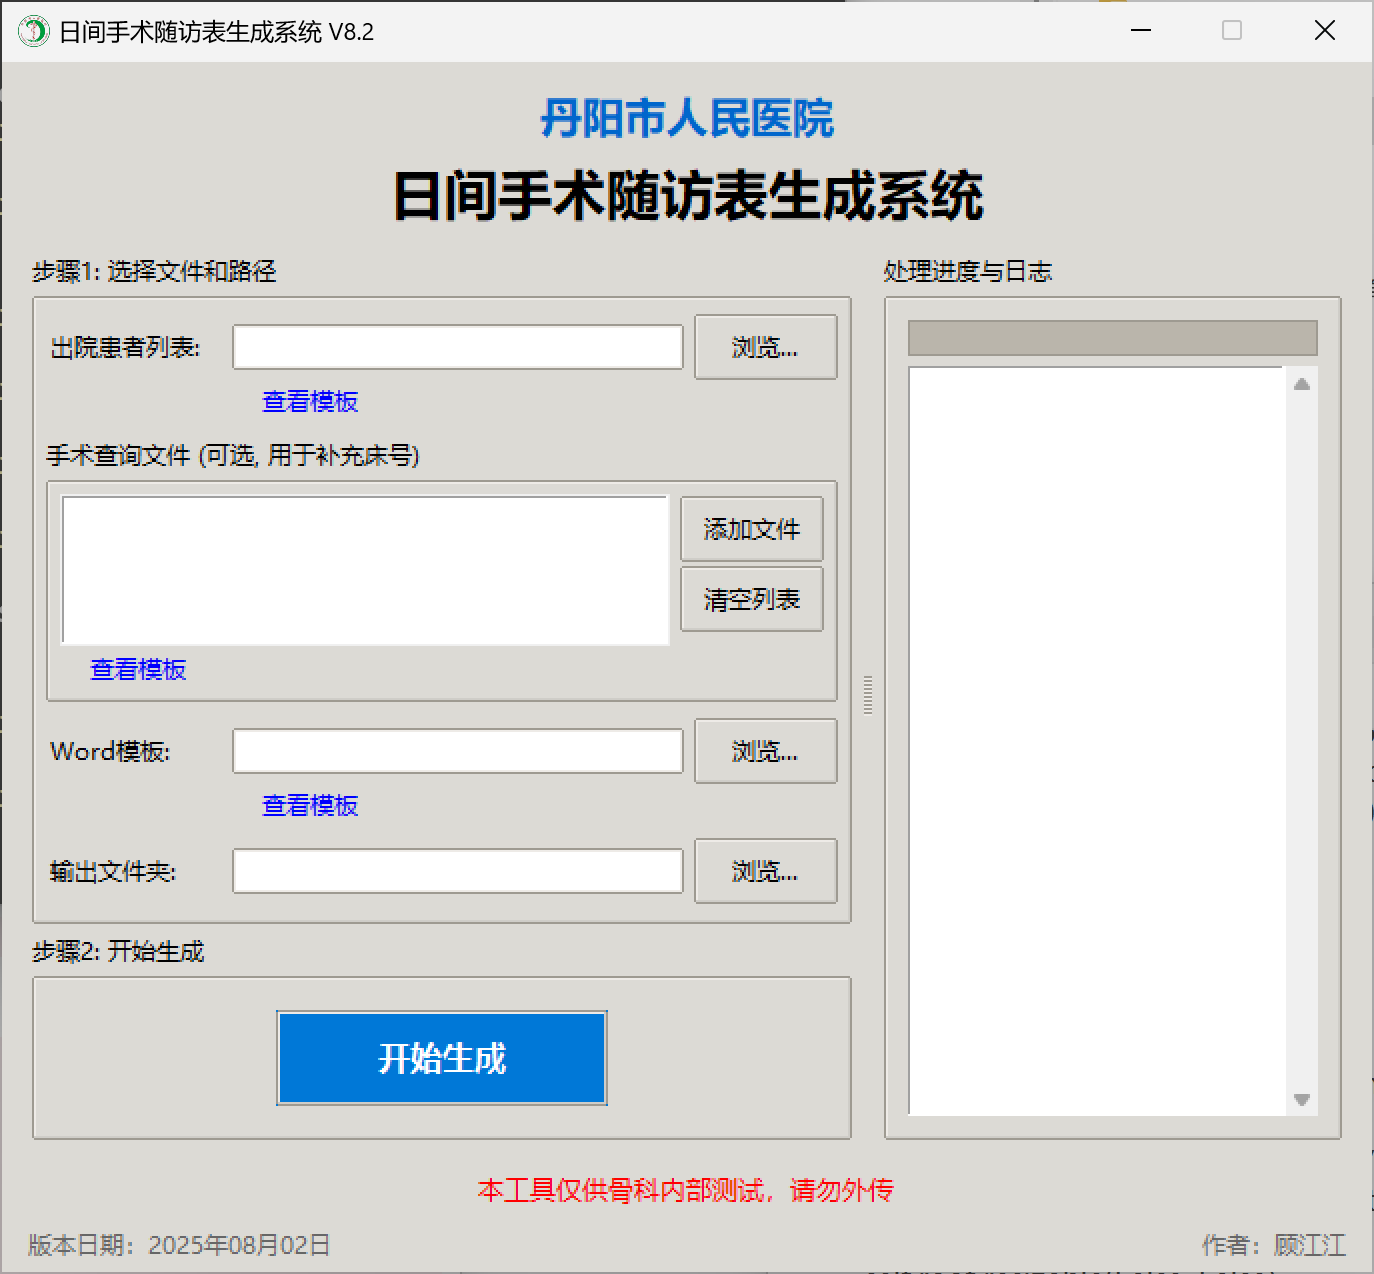
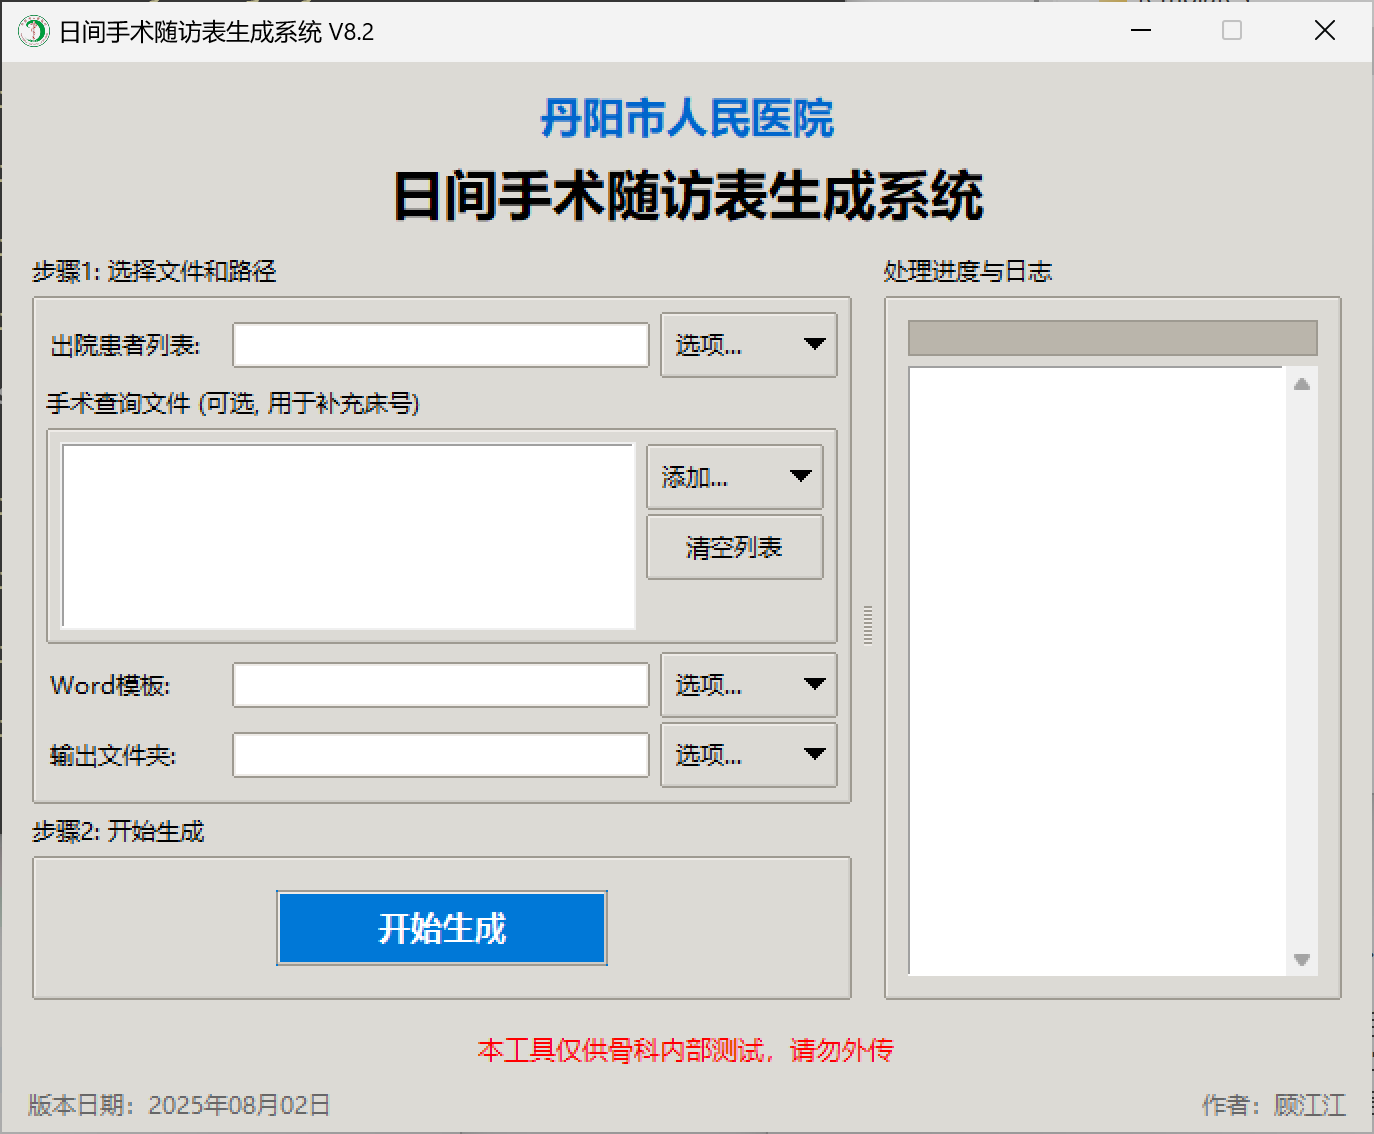
使用下拉菜单替换单纯的按钮，提升UI交互
- [UI交互升级] 将文件选择按钮升级为下拉菜单（Menubutton），集成了“选择文件”和“查看模板”等功能，使界面更紧凑、操作更便捷。

diff --git a/source/src/gui/ui_builder.py b/source/src/gui/ui_builder.py
@@ -19,7 +19,7 @@ def create_ui(app):
     app.root.configure(bg=default_bg)
     app.log_text_tags = {"warning": {"foreground": "orange"}, "error": {"foreground": "red"}}
 
-    # --- 底部信息栏 ---
+    # --- 底部和顶部UI元素 ---
     bottom_frame = tk.Frame(app.root, bg=default_bg)
     bottom_frame.pack(side=tk.BOTTOM, fill=tk.X, padx=10, pady=2)
     tk.Label(bottom_frame, text=f"版本日期：{datetime.now().strftime('%Y年%m月%d日')}", font=app.font_normal, fg="#666666", bg=default_bg).pack(side=tk.LEFT)
@@ -44,38 +44,70 @@ def create_ui(app):
 
     right_panel = ttk.Frame(main_pane, padding=(5, 5, 5, 5))
     main_pane.add(right_panel)
-
+    
+    # --- 分割线位置控制 (已恢复) ---
     s = app.scaling_factor
     sash_default = int(420 * s)
-    def set_initial_sash(event): main_pane.sashpos(0, sash_default)
-    main_pane.bind("<Configure>", set_initial_sash)
+    sash_min = int(320 * s)
+    sash_max = int(520 * s)
+
+    def set_initial_sash(event):
+        main_pane.sashpos(0, sash_default)
+        main_pane.unbind("<Configure>")
     
-    # --- 左侧面板内容 ---
+    def limit_sash_movement(event):
+        if event.x < sash_min:
+            main_pane.sashpos(0, sash_min)
+            return "break"
+        if event.x > sash_max:
+            main_pane.sashpos(0, sash_max)
+            return "break"
+
+    main_pane.bind("<Configure>", set_initial_sash)
+    main_pane.bind("<B1-Motion>", limit_sash_movement)
+    # ---------------------------------
+    
+    # --- 左侧面板 ---
     file_frame = ttk.LabelFrame(left_panel, text="步骤1: 选择文件和路径", padding=5)
     file_frame.pack(fill=tk.BOTH, expand=True) 
     
-    _create_file_selector(file_frame, "出院患者列表:", app.excel_path_var, app.select_excel_file, lambda: app.open_template('discharge'), app.font_normal)
+    # --- 出院患者列表 ---
+    discharge_menu_items = [
+        ("查看模板", lambda: app.open_template('discharge')),
+        ("选择文件", app.select_excel_file)
+    ]
+    _create_dropdown_selector(file_frame, "出院患者列表:", app.excel_path_var, discharge_menu_items, app.font_normal)
     
+    # --- 手术查询文件 ---
     surgery_frame = ttk.LabelFrame(file_frame, text="手术查询文件 (可选, 用于补充床号)", padding=5)
     surgery_frame.pack(fill=tk.X, expand=True, pady=3)
-    
-    listbox_frame = ttk.Frame(surgery_frame)
-    listbox_frame.pack(side=tk.LEFT, fill=tk.BOTH, expand=True)
-    app.surgery_listbox = tk.Listbox(listbox_frame, height=4, font=app.font_normal)
-    app.surgery_listbox.pack(side=tk.TOP, fill=tk.BOTH, expand=True)
-    
-    style.configure("Link.TButton", foreground="blue", relief="flat", borderwidth=0, padding=0)
-    template_btn_surgery = ttk.Button(listbox_frame, text="查看模板", command=lambda: app.open_template('surgery'), style="Link.TButton")
-    template_btn_surgery.pack(side=tk.BOTTOM, anchor='w', pady=(2,0))
-    
+    app.surgery_listbox = tk.Listbox(surgery_frame, height=5, font=app.font_normal)
+    app.surgery_listbox.pack(side=tk.LEFT, fill=tk.X, expand=True, padx=(0,5))
     surgery_buttons_frame = ttk.Frame(surgery_frame)
-    surgery_buttons_frame.pack(side=tk.LEFT, fill=tk.Y, anchor='n', padx=(5,0))
-    ttk.Button(surgery_buttons_frame, text="添加文件", command=app.select_surgery_query_files, width=8).pack(fill=tk.X, pady=1)
+    surgery_buttons_frame.pack(side=tk.LEFT, fill=tk.Y, anchor='n')
+    
+    # 手术查询的下拉菜单按钮
+    surgery_menubutton = ttk.Menubutton(surgery_buttons_frame, text="添加...", width=8)
+    surgery_menu = tk.Menu(surgery_menubutton, tearoff=False)
+    surgery_menu.add_command(label="查看模板", command=lambda: app.open_template('surgery'))
+    surgery_menu.add_command(label="添加文件", command=app.select_surgery_query_files)
+    surgery_menubutton.config(menu=surgery_menu)
+    surgery_menubutton.pack(fill=tk.X, pady=1)
+    
     ttk.Button(surgery_buttons_frame, text="清空列表", command=app.clear_surgery_query_files, width=8).pack(fill=tk.X, pady=1)
     
-    _create_file_selector(file_frame, "Word模板:", app.template_path_var, app.select_template_file, lambda: app.open_template('follow_up'), app.font_normal)
-    _create_file_selector(file_frame, "输出文件夹:", app.output_dir_var, app.select_output_dir, None, app.font_normal)
+    # --- Word模板 ---
+    word_menu_items = [
+        ("查看模板", lambda: app.open_template('follow_up')),
+        ("选择文件", app.select_template_file),
+        ("使用内置模板", app.use_builtin_word_template)
+    ]
+    _create_dropdown_selector(file_frame, "Word模板:", app.template_path_var, word_menu_items, app.font_normal)
     
+    # --- 输出文件夹 ---
+    _create_dropdown_selector(file_frame, "输出文件夹:", app.output_dir_var, [("选择文件夹", app.select_output_dir)], app.font_normal)
+    
+    # --- 控制和进度条 ---
     left_bottom_container = ttk.Frame(left_panel)
     left_bottom_container.pack(fill=tk.X, pady=(5,0))
     control_frame = ttk.LabelFrame(left_bottom_container, text="步骤2: 开始生成", padding=10)
@@ -86,7 +118,7 @@ def create_ui(app):
     app.start_button = ttk.Button(control_frame, text="开始生成", command=app.toggle_generation, style="Accent.TButton")
     app.start_button.pack(pady=5, ipady=5, ipadx=20)
 
-    # --- 右侧面板内容 ---
+    # --- 右侧面板 ---
     progress_frame = ttk.LabelFrame(right_panel, text="处理进度与日志", padding=10)
     progress_frame.pack(fill=tk.BOTH, expand=True)
     
@@ -98,24 +130,20 @@ def create_ui(app):
     for tag, config in app.log_text_tags.items():
         app.log_text.tag_config(tag, **config)
 
-def _create_file_selector(parent, label_text, string_var, browse_command, template_command, font):
+def _create_dropdown_selector(parent, label_text, string_var, menu_items, font):
     """
-    一个私有辅助函数，用于创建文件/目录选择器行。
-    此版本接收6个参数。
+    创建带有下拉菜单按钮的文件/目录选择器行。
     """
-    container = ttk.Frame(parent)
-    container.pack(fill=tk.X, expand=True, pady=1)
+    row_frame = ttk.Frame(parent)
+    row_frame.pack(fill=tk.X, expand=True, pady=1)
+    ttk.Label(row_frame, text=label_text, width=12, font=font).pack(side=tk.LEFT)
+    ttk.Entry(row_frame, textvariable=string_var, state='readonly', font=font).pack(side=tk.LEFT, fill=tk.X, expand=True, padx=5)
     
-    top_frame = ttk.Frame(container)
-    top_frame.pack(fill=tk.X, expand=True)
+    menubutton = ttk.Menubutton(row_frame, text="选项...", width=8)
+    menu = tk.Menu(menubutton, tearoff=False)
     
-    ttk.Label(top_frame, text=label_text, width=12, font=font).pack(side=tk.LEFT)
-    ttk.Entry(top_frame, textvariable=string_var, state='readonly', font=font).pack(side=tk.LEFT, fill=tk.X, expand=True, padx=5)
-    ttk.Button(top_frame, text="浏览...", command=browse_command, width=8).pack(side=tk.RIGHT)
-    
-    if template_command:
-        bottom_frame = ttk.Frame(container)
-        bottom_frame.pack(fill=tk.X, expand=True)
-        ttk.Label(bottom_frame, text="", width=12).pack(side=tk.LEFT) # 占位符标签，用于对齐
-        template_btn = ttk.Button(bottom_frame, text="查看模板", command=template_command, style="Link.TButton")
-        template_btn.pack(side=tk.LEFT, anchor='w', padx=5)
+    for label, command in menu_items:
+        menu.add_command(label=label, command=command)
+        
+    menubutton.config(menu=menu)
+    menubutton.pack(side=tk.RIGHT)

diff --git a/source/src/gui/main_app.py b/source/src/gui/main_app.py
@@ -91,6 +91,7 @@ class MainApp:
             else:
                 messagebox.showerror("错误", f"模板文件未找到！\n请确保 '{template_name}' 文件存在于 'templates' 文件夹中。")
         except Exception as e:
+            messagebox.showerror("打开失败", f"无法打开模板文件，请确保您已安装对应的办公软件。\n错误: {e}")
 
     def select_excel_file(self):
         path = filedialog.askopenfilename(title="选择出院患者记录单", filetypes=[("Excel文件", "*.xlsx *.xls")])
@@ -112,6 +113,10 @@ class MainApp:
         path = filedialog.askopenfilename(title="选择随访表模板", filetypes=[("Word模板", "*.docx")])
         if path: self.template_path_var.set(path)
 
+    def use_builtin_word_template(self):
+        """设置UI以表明正在使用内置模板。"""
+        self.template_path_var.set("[使用内置模板]")
+
     def select_output_dir(self):
         path = filedialog.askdirectory(title="选择保存位置")
         if path: self.output_dir_var.set(path)
@@ -124,16 +129,17 @@ class MainApp:
             self.start_button.config(state='disabled', text="正在停止...")
         else:
             if not all([self.excel_path_var.get(), self.output_dir_var.get()]):
+                messagebox.showwarning("信息不全", "请先选择好“出院患者列表”和“输出文件夹”。")
                 return
-                    return
             
             template_path = self.template_path_var.get()
-            if not template_path:
-                self.log_message("未选择外部Word模板，将使用内置模板。", "warning")
+            if not template_path or template_path == "[使用内置模板]":
+                self.log_message("未选择外部Word模板或已指定使用内置模板，将加载内置模板。", "info")
                 template_path = os.path.join(self.base_path, 'templates', CONFIG['follow_up_template_name'])
                 if not os.path.exists(template_path):
                     messagebox.showerror("错误", f"内置Word模板未找到！\n请确保 '{CONFIG['follow_up_template_name']}' 文件存在于 'templates' 文件夹中。")
                     return
+            
             self.start_button.config(text="停止生成", style="Stop.TButton")
             self.progress_bar['value'] = 0
             self.log_text.config(state='normal'); self.log_text.delete('1.0', tk.END); self.log_text.config(state='disabled')
@@ -141,6 +147,7 @@ class MainApp:
             self.generator_instance = DocumentGenerator(
                 excel_path=self.excel_path_var.get(), 
                 surgery_query_paths=self.surgery_query_files,
+                template_path=template_path, 
                 output_dir=self.output_dir_var.get(), 
                 app_instance=self
             )

diff --git a/docs/changelog.md b/docs/changelog.md
@@ -199,3 +199,4 @@
 #### 版本 V8.2 更新内容:
 - [新增内置模板功能] 在文件选择框旁增加了“查看模板”按钮，用户可随时打开标准的Excel和Word模板。当未选择外部Word模板时，程序会自动使用templates目录下的内置模板进行文档生成。
 - [修复] 修正了模板和资源文件（图标、启动图）的路径定位逻辑，确保程序无论是在开发环境运行还是被打包成exe后都能正确找到所需文件。
+- [UI交互升级] 将文件选择按钮升级为下拉菜单（Menubutton），集成了“选择文件”和“查看模板”等功能，使界面更紧凑、操作更便捷。

diff --git a/docs/BUILD_GUIDE.md b/docs/BUILD_GUIDE.md
@@ -120,7 +120,7 @@ python -m nuitka `
   --mingw64 `
   --output-dir=build `
   --output-filename="day_durgery_form_automator.exe" `
-  --file-version=8.2.0.1 `
+  --file-version=8.2.1.1 `
   --product-version=8.2 `
   --company-name="Danyang People's Hospital" `
   --product-name="Day Surgery Form Automator" `
@@ -141,7 +141,7 @@ python -m nuitka ^
   --mingw64 ^
   --output-dir=build ^
   --output-filename="day_durgery_form_automator.exe" ^
-  --file-version=8.2.0.1 `
+  --file-version=8.2.1.1 `
   --product-version=8.2 `
   --company-name="Danyang People's Hospital" `
   --product-name="Day Surgery Form Automator" `
